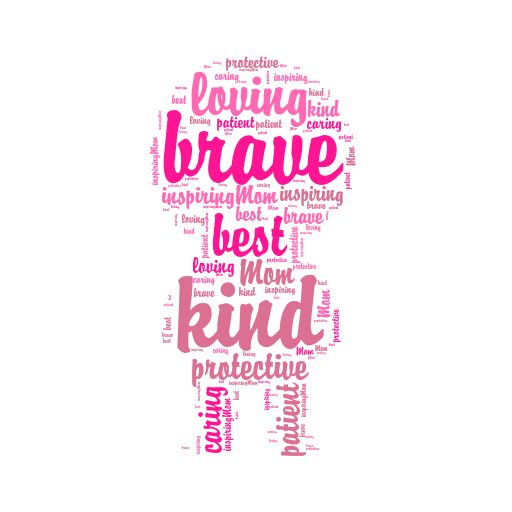
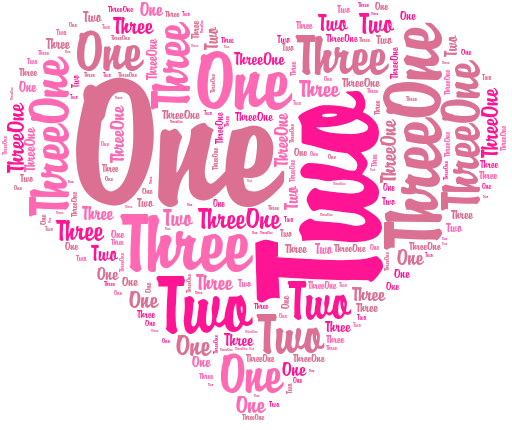
fix: update word cloud metrics calculation and example text

diff --git a/examples/generate.js b/examples/generate.js
@@ -3,7 +3,7 @@ const path = require('path');
 const { loadImage, createCanvas } = require('@napi-rs/canvas');
 const { WordCloud } = require('..');
 
-const sampleText = `Mom brave kind loving best protective patient caring inspiring`;
+const sampleText = `One Two Three`;
 
 async function createFromMask(filePath, maxDimension = null) {
   const resolved = path.isAbsolute(filePath) ? filePath : path.join(__dirname, filePath);
@@ -47,7 +47,7 @@ async function createFromMask(filePath, maxDimension = null) {
 
 async function main() {
   // Place a `mask.png` next to this script to constrain the cloud shape.
-  const maskPath = path.join(__dirname, 'mask.png');
+  const maskPath = '/Users/apple/Downloads/pngegg.png';
   const hasMask = fs.existsSync(maskPath);
   const previewMask = hasMask ? await createFromMask(maskPath, 512) : null;
   const fullMask = hasMask ? await createFromMask(maskPath, 1024) : null;
@@ -59,7 +59,7 @@ async function main() {
     preferHorizontal: 0.85,
     repeat: true,
     // maxWords: 1000,
-    margin: 2,
+    margin: 4,
     fillGaps: true,
     // Define your own palette inline; this keeps the package lean.
     colorFunc: (() => {

diff --git a/dist/wordcloud.js b/dist/wordcloud.js
@@ -285,11 +285,11 @@ class WordCloud {
         const metrics = ctx.measureText(word);
         const buffer = 2;
         const width = Math.ceil(metrics.width + buffer);
-        const height = Math.ceil((metrics.actualBoundingBoxAscent || 0) + (metrics.actualBoundingBoxDescent || 0) + buffer);
+        const height = Math.ceil((metrics.actualBoundingBoxAscent) + (metrics.actualBoundingBoxDescent) + buffer);
         return {
             width,
             height,
-            ascent: metrics.actualBoundingBoxAscent || 0,
+            ascent: metrics.actualBoundingBoxAscent,
         };
     }
     generateFromFrequencies(frequencies, maxFontSize, bootstrap = false) {

diff --git a/src/wordcloud.ts b/src/wordcloud.ts
@@ -429,13 +429,13 @@ export class WordCloud {
 
     const width = Math.ceil(metrics.width + buffer);
     const height = Math.ceil(
-      (metrics.actualBoundingBoxAscent || 0) + (metrics.actualBoundingBoxDescent || 0) + buffer
+      (metrics.actualBoundingBoxAscent) + (metrics.actualBoundingBoxDescent) + buffer
     );
 
     return {
       width,
       height,
-      ascent: metrics.actualBoundingBoxAscent || 0,
+      ascent: metrics.actualBoundingBoxAscent,
     };
   }
 
